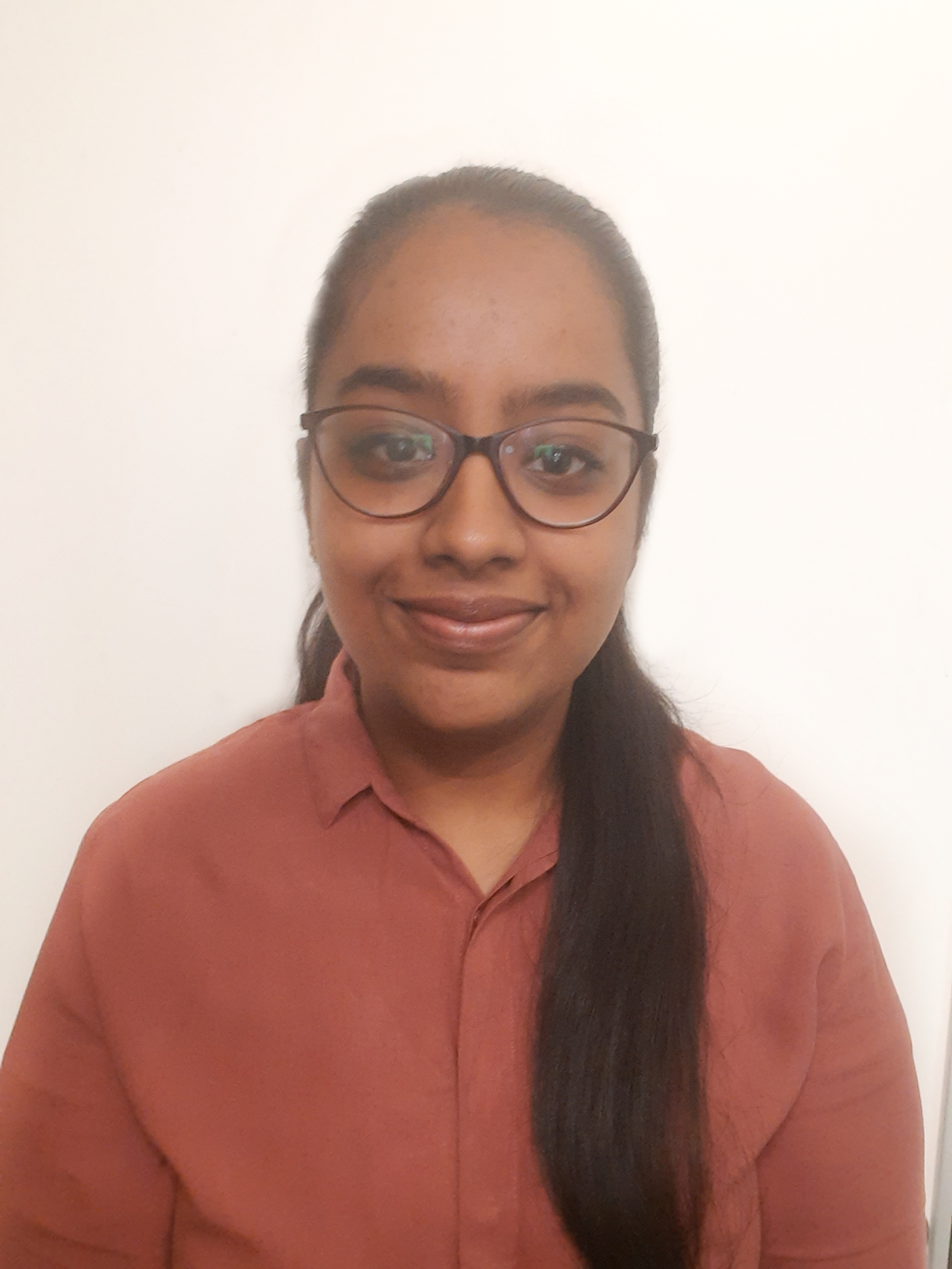
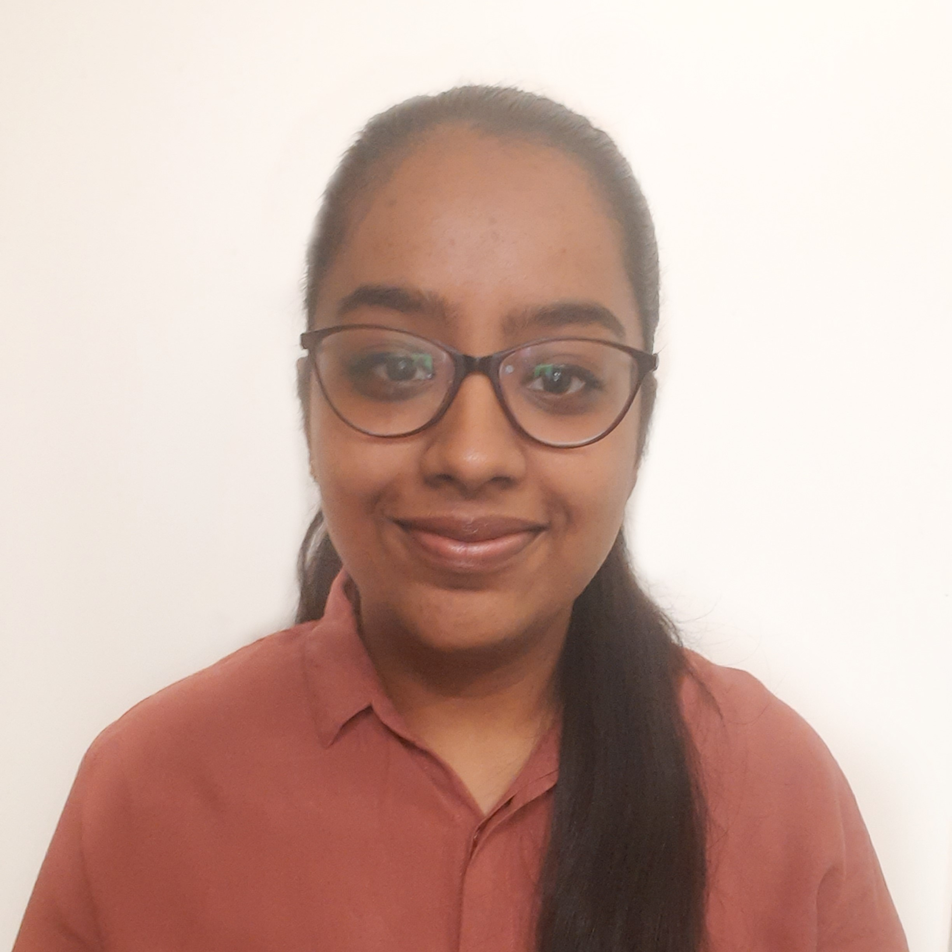
fixed pictures and minor changes in contact us form

Changed region(s): [[0.0, 0.2794, 1.0, 1.0], [0.3415, 0.0621, 0.683, 0.2173], [0.3105, 0.2173, 0.3415, 0.2484]]

diff --git a/client/src/AboutUs.jsx b/client/src/AboutUs.jsx
@@ -5,7 +5,7 @@ import Nav from './Nav';
 const teamMembers = [
   { name: 'Divyata Soni', role: 'Project Lead', imgSrc: 'src/assets/divyata.jpg', intro: 'Divyata is the driving force behind our project, ensuring everything runs smoothly and efficiently.' },
   { name: 'Abhishek Gupta', role: 'Software Engineer', imgSrc: 'src/assets/abhishek.jpg', intro: 'Abhishek develops the software that powers our system, integrating various technologies seamlessly.' },
-  { name: 'Krishna Verma', role: 'Software Engineer', imgSrc: 'src/assets/krishna.jpg', intro: 'Carol designs and manages the electrical systems, ensuring everything operates reliably.' },
+  { name: 'Krishna Verma', role: 'Software Engineer', imgSrc: 'src/assets/krishna.jpg', intro: 'Krishna designs and manages the electrical systems, ensuring everything operates reliably.' },
   { name: 'Anhad Sharma', role: 'Data Analyst', imgSrc: 'src/assets/anhad.jpg', intro: 'Anhad analyzes data from our system to optimize performance and provide actionable insights.' },
   { name: 'Akshita Jain', role: 'Web Developer', imgSrc: 'src/assets/akshita.jpg', intro: 'Akshita integrates various system components, ensuring all parts of the project work together flawlessly.' },
 ];

diff --git a/client/src/AboutUs.css b/client/src/AboutUs.css
@@ -38,7 +38,7 @@
 
 .team-grid {
     display: grid;
-    grid-template-columns: repeat(auto-fit, minmax(250px, 1fr));
+    grid-template-columns: repeat(auto-fit, minmax(200px, 1fr));
     gap: 20px;
     justify-content: center;
     perspective: 1000px; /* Gives a 3D effect */
@@ -119,22 +119,24 @@
 }
 
 form {
-    padding-top: 10px;
+    padding-top: 5px;
     display: flex;
     flex-direction: column;
     align-items: center;
 }
 
 form label {
-    margin: 10px 0 5px;
+    margin: 5px 0 5px;
 }
 
 form input,
 form textarea {
     width: 100%;
     max-width: 500px;
-    padding: 10px;
-    margin-bottom: 20px;
+    padding: 1px;
+    padding-left: 10px;
+    padding-right:10px ;
+    margin-bottom: 12px;
     border: 1px solid #ccc;
     border-radius: 5px;
 }
@@ -145,6 +147,7 @@ form button {
     padding: 10px 20px;
     border: none;
     border-radius: 5px;
+    min-width: 15%;
     cursor: pointer;
 }
 
